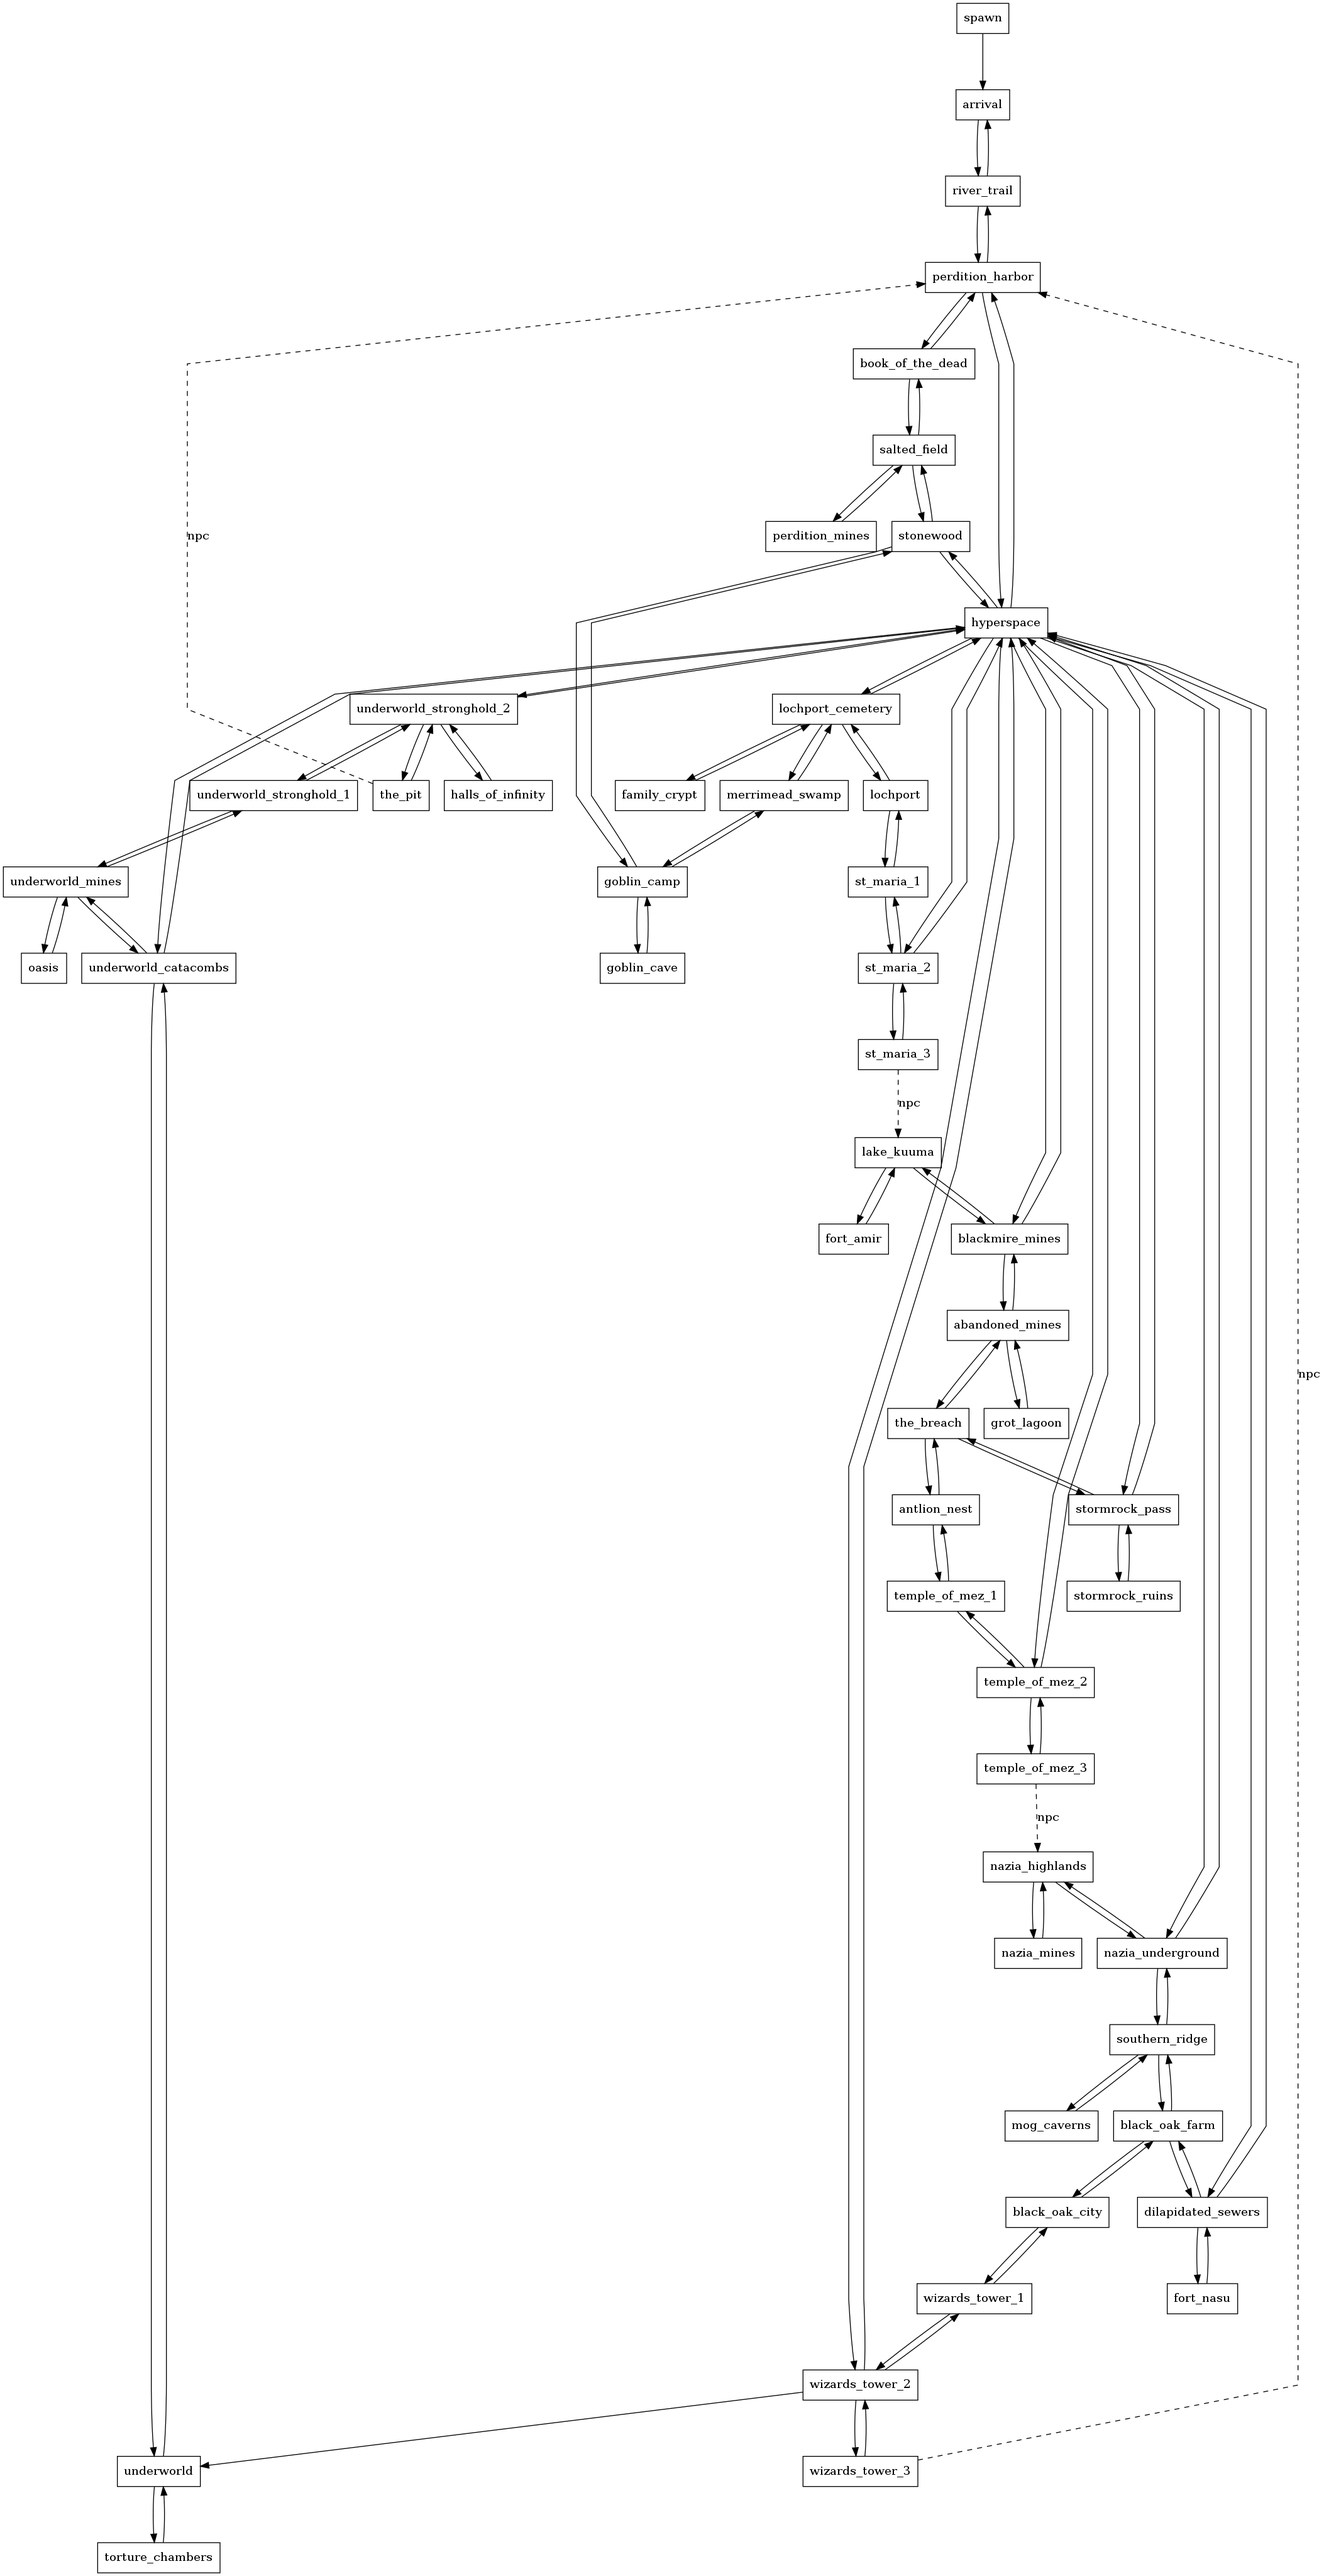
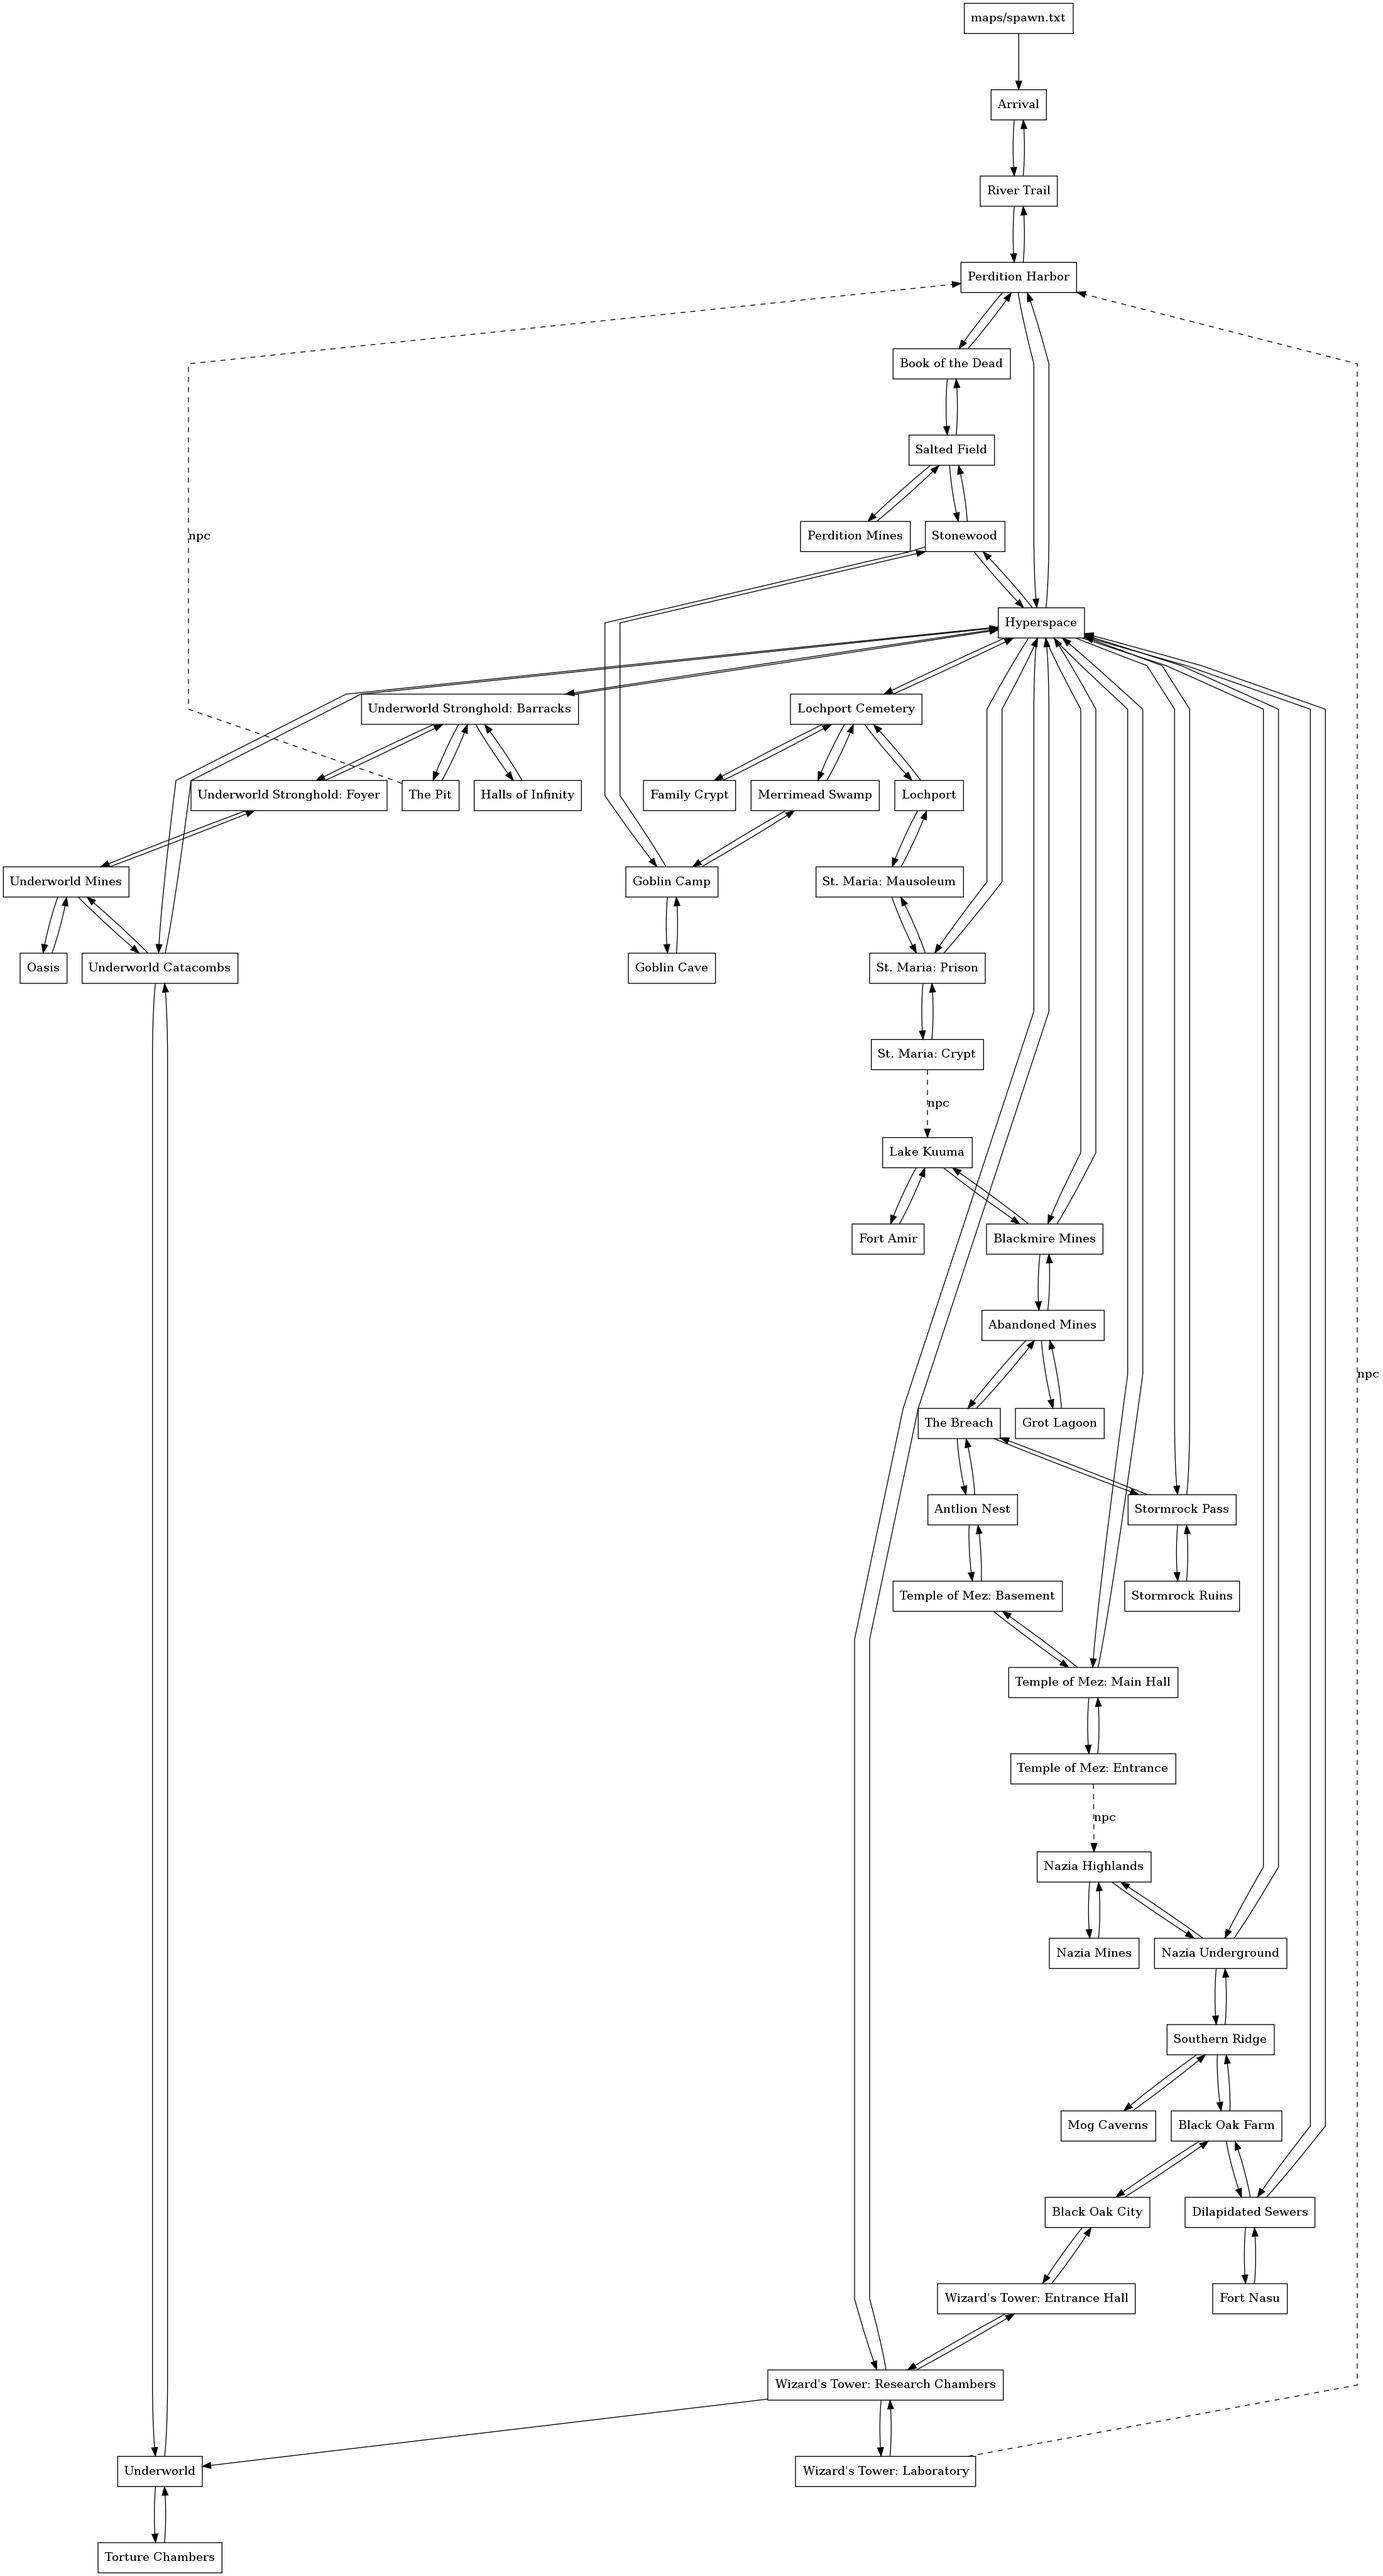
use map name as graphviz node label

diff --git a/generate_graph.py b/generate_graph.py
@@ -2,10 +2,16 @@
 
 import glob
 import re
-import itertools
 import os
 
 data_dir = os.path.abspath(os.environ["data_dir"])
+graphviz_prefix_file = os.environ.get("graphviz_prefix", "prefix.dot")
+print_dead = os.environ.get("print_dead", "false").lower() in ("yes", "true", "1")
+
+with open(graphviz_prefix_file, 'rU') as opened_file:
+    graphviz = opened_file.read()
+
+os.chdir(os.path.abspath(os.environ["data_dir"]))
 
 
 def get_intermaps(filename):
@@ -30,20 +36,27 @@ def get_npc_files(filename):
     return result
 
 
+def get_map_name(filename):
+    with open(filename, 'rU') as opened_file:
+        for line in opened_file:
+            ref = re.search('title=(.*)', line)
+            if ref:
+                return ref.group(1)
+
+
 map_to_map_direct = {}
 map_to_map_npc = {}
 
-all_maps = itertools.chain(
-    glob.iglob(data_dir + '/maps/*.txt'),
-    glob.iglob(data_dir + '/maps/*/*.txt')
-)
-for map_name in all_maps:
-    relative = os.path.relpath(map_name, data_dir)
-    map_to_map_direct[relative] = get_intermaps(map_name)
-    map_to_map_npc[relative] = []
-    for npc_file in get_npc_files(map_name):
-        map_to_map_npc[relative].extend(
-            get_intermaps(data_dir + '/' + npc_file)
+all_maps = list(glob.iglob('maps/*.txt')) + \
+           list(glob.iglob('maps/*/*.txt'))
+all_maps = list(map(lambda x: os.path.relpath(x, data_dir), all_maps))
+
+for map_file in all_maps:
+    map_to_map_direct[map_file] = get_intermaps(map_file)
+    map_to_map_npc[map_file] = []
+    for npc_file in get_npc_files(map_file):
+        map_to_map_npc[map_file].extend(
+            get_intermaps(npc_file)
         )
 
 # print(map_to_map_direct)
@@ -54,22 +67,26 @@ def clean(filename):
     return os.path.splitext(os.path.basename(filename))[0]
 
 
-with open(os.environ.get("graphviz_prefix", "prefix.dot"), 'rU') as opened_file:
-    graphviz = opened_file.read()
-
 traversed = {}
 to_traverse = ['maps/spawn.txt']
 for map_file in to_traverse:
     traversed[map_file] = True
-    map = os.path.splitext(os.path.basename(map_file))[0]
+    map_id = clean(map_file)
     for npc_child in map_to_map_npc[map_file]:
-        graphviz += '{} -> {} [label=npc style=dashed]\n'.format(map, clean(npc_child))
+        graphviz += '{} -> {} [label=npc style=dashed]\n'.format(map_id, clean(npc_child))
         if npc_child not in traversed:
             to_traverse.append(npc_child)
     for direct_child in map_to_map_direct[map_file]:
-        graphviz += '{} -> {}\n'.format(map, clean(direct_child))
+        graphviz += '{} -> {}\n'.format(map_id, clean(direct_child))
         if direct_child not in traversed:
             to_traverse.append(direct_child)
+    graphviz += '{} [label="{}"]\n'.format(map_id, get_map_name(map_file) or map_file)
+
+if print_dead:
+    for map_file in all_maps:
+        map_name = get_map_name(map_file)
+        graphviz += '{} [label="{}"]\n'.format(clean(map_file), map_name or map_file)
+
 
 graphviz += "}"
 

diff --git a/README.md b/README.md
@@ -7,8 +7,16 @@ It is kinda "untyped", relying on regular expressions, yet it works just fine on
 ## Usage
 
 ```bash
-data_dir="/path/to/mod/" graphviz_prefix="./prefix.dot" ./generate_graph.py | dot -Tpng > output.png
+data_dir="/path/to/mod/" ./generate_graph.py | dot -Tpng > output.png
 ```
+
+Additionally, you can set environment variables
+`graphviz_prefix` to specify prefix file and
+`print_dead` to print/draw unreachable map nodes.
+
+Also, you can use "svg" and many other other picture formats that `dot` (graphviz) tool allows.
+
+## Legacy
 
 There are also two legacy bash scripts that generate map without sorting.
 Unfortunately, the main smart algo does not differ much from it if you have crazy connected map tiles (hyperspace, I'm looking at you).
